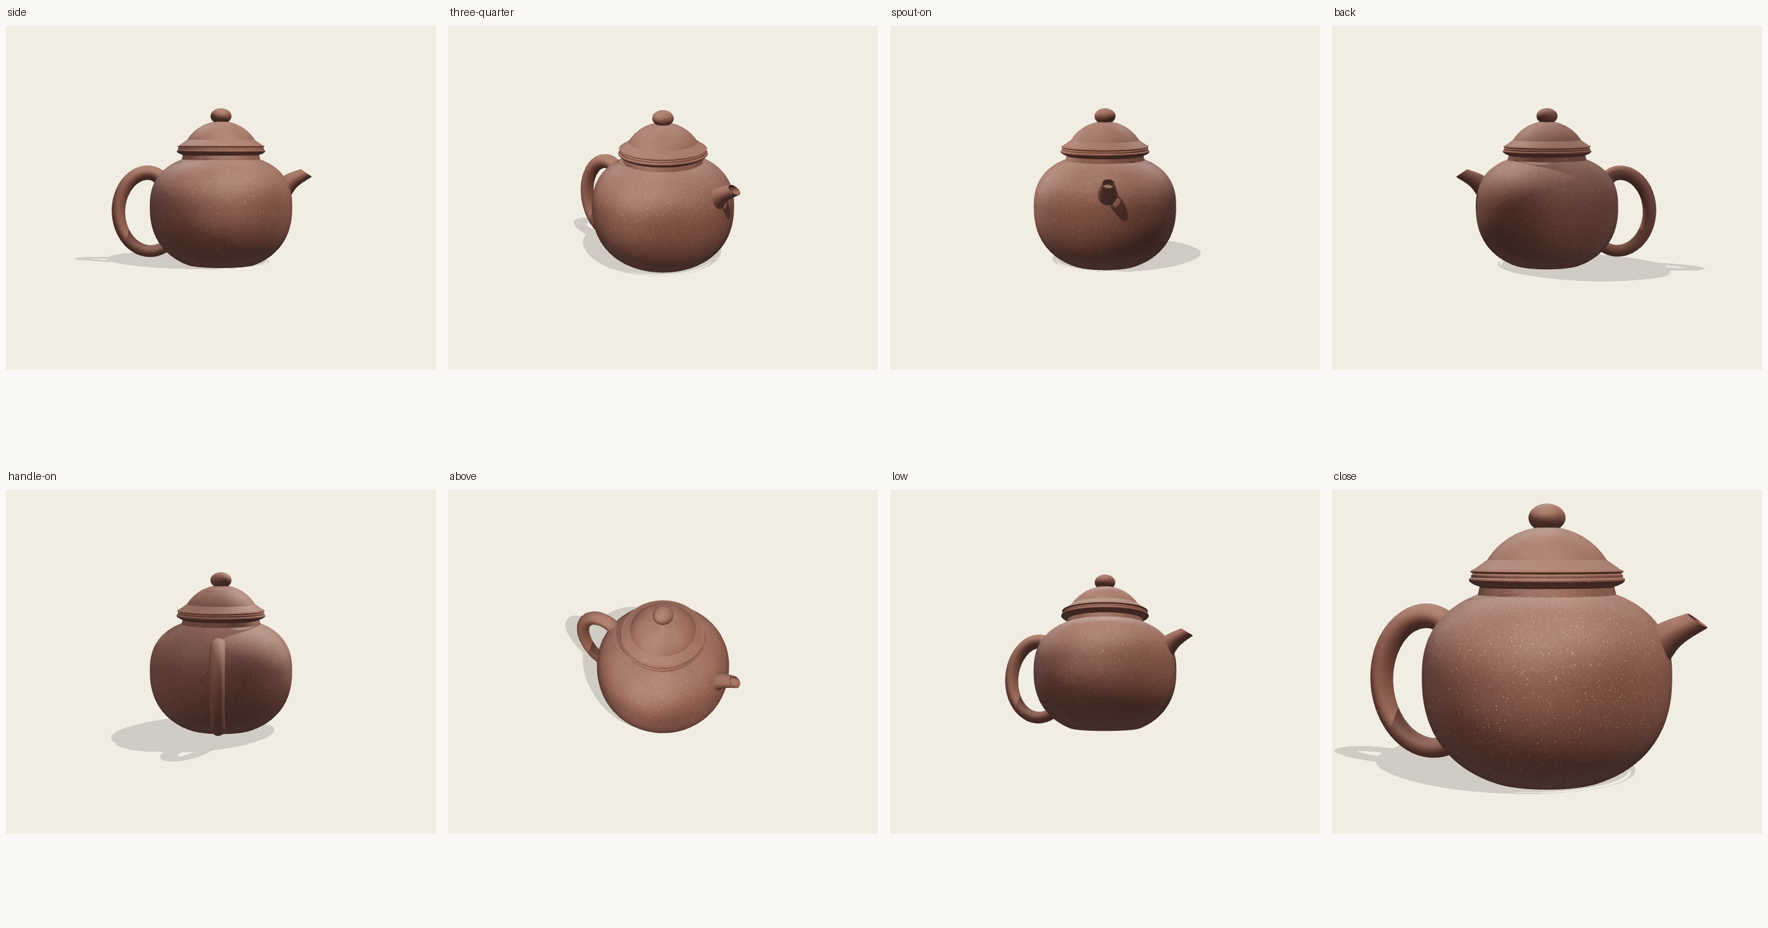
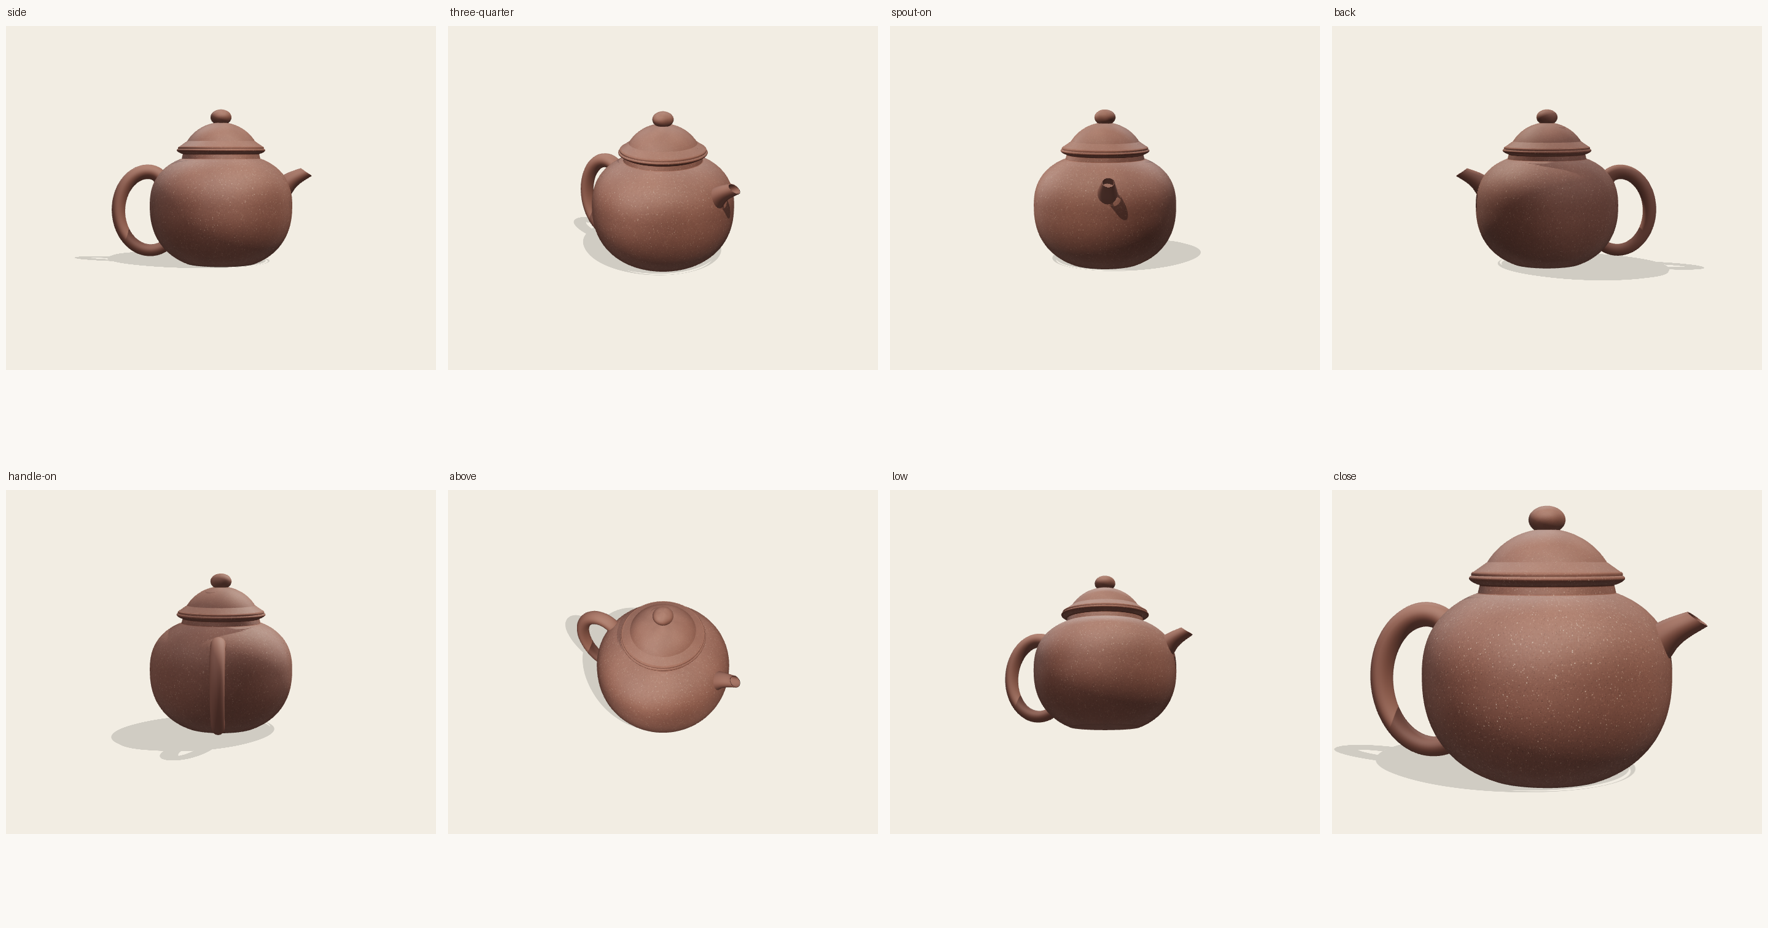
掇球: drop the lid bead — two rings read better than five lines
The lid's own bead, the brim edge and the body's collar together put four or
five fine ridges round the shoulder where both references show two clean rings
with a shadow between them. Setting bead to 0 leaves exactly those two: the
lid's brim edge, and the body's collar.

The `bead` and `beadH` params stay on ballCap — a lid that wants its own ring
can still have one — they are simply 0 here.

Lid height falls to 0.293 of the rim diameter (from 0.317), still inside canon.

Twelve-view QC; canon and details pass on all six pots.

Claude-Session: https://claude.ai/code/session_01Au3NkrP4Zh9Vb2uEzJxxmj

diff --git a/public/refs/index.html b/public/refs/index.html
@@ -48,6 +48,9 @@
 
 <figure><figcaption>掇球 — brim width against dome height, swept against both references</figcaption>
 <a href="lid_sweep.png"><img src="lid_sweep.png" alt=""></a></figure>
+
+<figure><figcaption>掇球 — dropping the lid bead: four or five fine lines down to two clean rings</figcaption>
+<a href="bead.png"><img src="bead.png" alt=""></a></figure>
 <figure><figcaption>掇球 — the collar band close up, after the staircase fix</figcaption>
 <a href="neck_after.png"><img src="neck_after.png" alt=""></a></figure>
 
